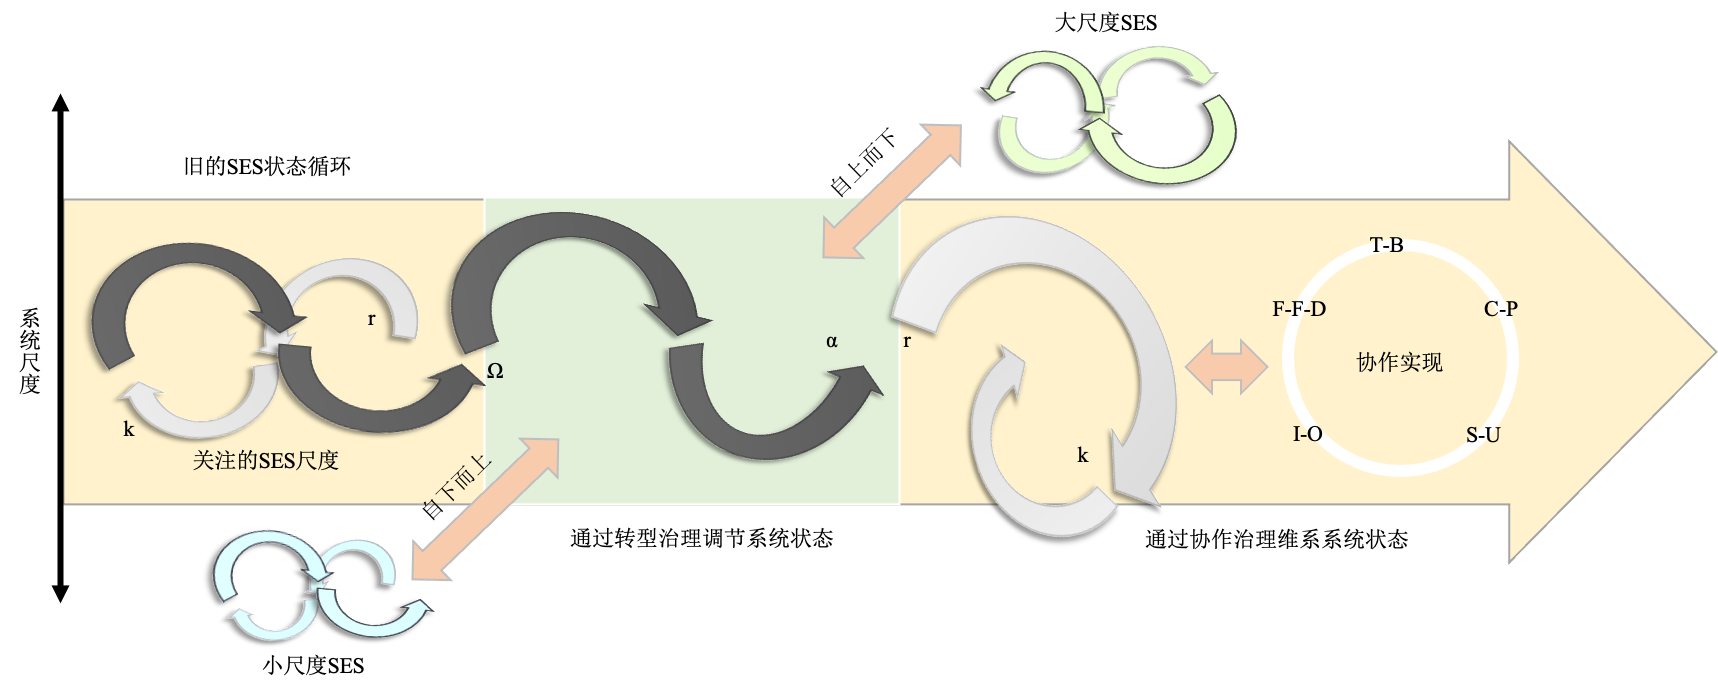
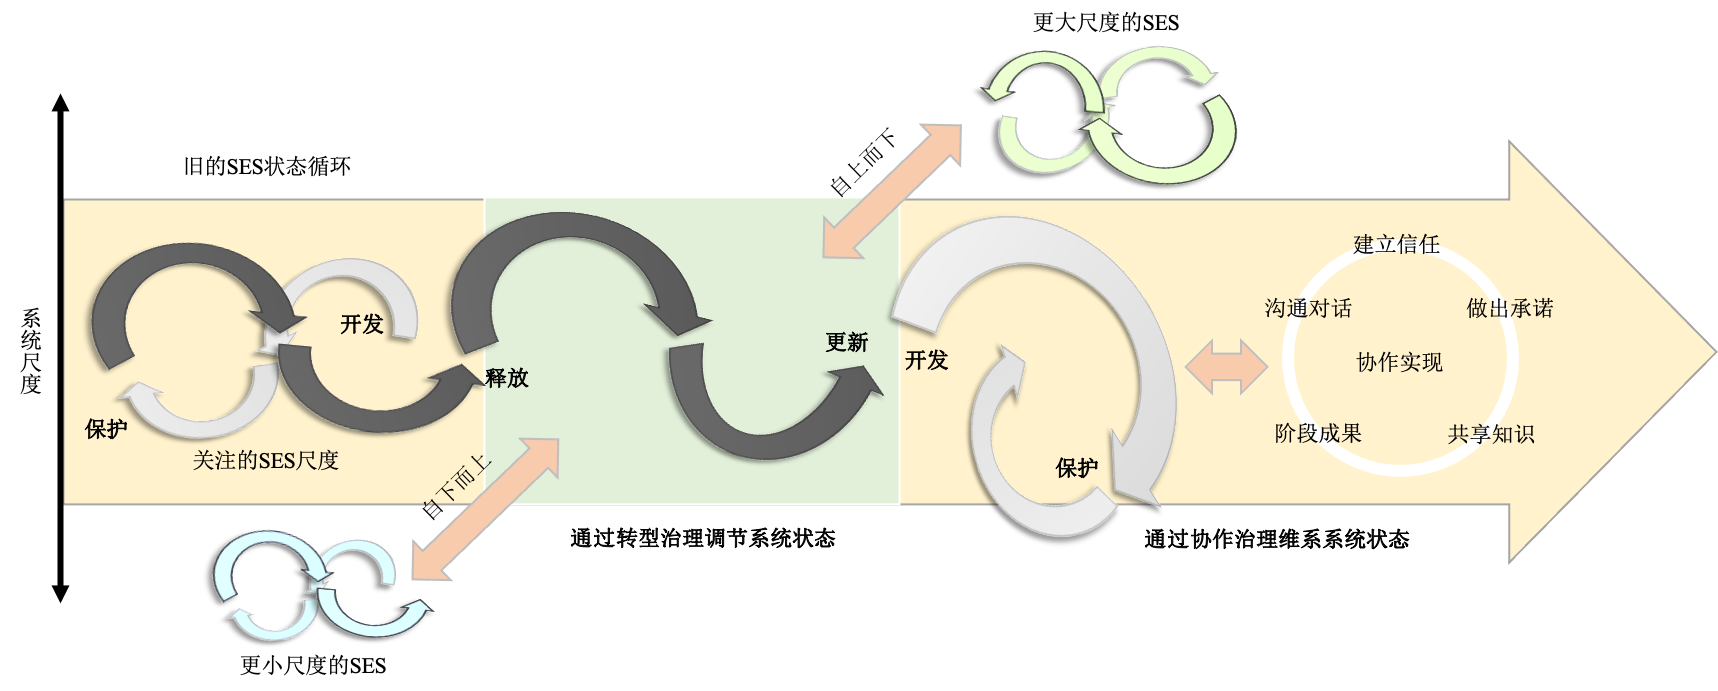
feat(chapter-1): :art: 更新第一章所有的图片

diff --git a/chapter1/source/introduction/ch1_theories.tex b/chapter1/source/introduction/ch1_theories.tex
@@ -17,9 +17,10 @@
 
 \subsubsection*{自然-社会二元水循环}
 
-王浩等人提出的“自然-社会二元水循环”理论指出，流域水循环受到人类活动影响，呈现出“天然-人工”二元特性\cite{wang2006}。
+王浩等人提出的“自然-社会二元水循环”理论指出，流域水循环受到人类活动影响，呈现出“天然-人工”二元特性\cite{wang2006}（图~\ref{ch1:fig:two_water_cycle}左）。
 该理论强调需要以“蒸散发管理”和“耗水管理”为核心来管理自然水循环和人工水循环，提出“以蒸散耗管理为核心、七大总量控制为约束”的水资源管理理念，在水资源评价工作中兼顾了水的自然和社会属性\cite{wang2010}。
-该理论的发展也得到了不少学者的补充和完善，例如王浩与贾仰文指出水循环的演变效应也是该理论的研究重点\cite{wang2016}，邓铭江等则提出了“自然—社会—贸易”三元水循环模式，解释西北干旱区内陆河流域水循环的机理\cite{deng2020}。该理论的提出强调了水资源管理需要考虑自然和社会属性，对于水资源的评价和管理带来了新的挑战。
+该理论的发展也得到了不少学者的补充和完善，例如王浩与贾仰文指出水循环的演变效应也是该理论的研究重点\cite{wang2016}，邓铭江等则提出了“自然—社会—贸易”三元水循环模式，解释西北干旱区内陆河流域水循环的机理\cite{deng2020}。
+该理论的提出强调了水资源管理需要考虑自然和社会属性，应对强烈人类活动干预为水资源评价和管理带来的挑战。
 
 自然-社会二元水循环理论以平衡态为基本假设，同时考虑了许多人类活动的影响。在水量估算与建模评价上具有理论优势，主要研究手段是原型观测、物理模型和数学模型。国内学者基于二元水循环的概念模式主要在水资源和水生态方面开展评价管理研究，包括识别循环结构、多尺度多过程分析、演变规律、未来预测与调控等\cite{wang2016}。
 例如，刘家宏等人在海河流域应用该理论，构建水平衡方程厘清“自然-人工”二元水循环结构，借助数据定量识别了该结构中各部分的数量关系\cite{liu2010}。
@@ -27,11 +28,17 @@
 黄强等人（2002）采用小波分析的方法对黄河二元模式的逐年演变规律进行了探索\cite{huang2002}；裴源生等人（2020）采用该理论改进了水量、水质、水效的联合调控方法\cite{pei2020}。
 可见，“自然-社会二元水循环”通过考虑人类社会系统对水循环的影响和对水资源的消耗，对指导现代流域水资源管理实践大有裨益。但是，其底层仍基于平衡态的工程学思想，在人与水的互馈作用研究上有所不足。
 
+\begin{figure}[htb]
+    \centering
+    \includegraphics[width=\textwidth]{img/ch1/ch1_two_water_cycle.png}
+    \caption[流域人水系统耦合的典型理论示意图]{流域人水系统耦合的典型理论示意图\cite{wang2006,dibaldassarre2015}。蓝色代表自然水循环的典型过程；黄色代表社会水循环的典型过程。}\label{ch1:fig:two_water_cycle}
+\end{figure}
+
 \subsubsection*{流域社会-水文学}
 
 % 开题报告
 旨在理解人-水之间协同演化规律和循环互馈机制的社会-水文学应运而生，并在现象检测、机理分析、模型预测等方面都获得了长足发展\cite{sivapalan2012, blair2016, srinivasan2016}。
-社会-水文学在诞生之初便以流域系统为单元分析人与水的互动反馈过程，其最根本的特征是将社会-水文系统视为动态系统，并将人类社会相关变量作为系统内部的驱动力，而非像传统水文学那样假设水文系统是在人类外部干扰下处于平衡态的\cite{sivapalan2012}。
+社会-水文学在诞生之初便以流域系统为单元分析人与水的互动反馈过程（图~\ref{ch1:fig:two_water_cycle}右），其最根本的特征是将社会-水文系统视为动态系统，并将人类社会相关变量作为系统内部的驱动力，而非像传统水文学那样假设水文系统是在人类外部干扰下处于平衡态的\cite{sivapalan2012}。
 Konar等人将社会-水文学的主要研究方向总结为四个：水循环与水资源利用、人与干旱之间的相互作用、人与洪水之间的相互作用、人与政策制度的相互作用\cite{konar2019}。
 Yu等人则指出该学科经多年发展后呈现出三个特征：在水循环的不同时空尺度下开展研究、将人类文化的演化特征纳入研究、将基础设施建设对水循环的干扰纳入分析\cite{yu2020}。
 这种超越传统水文学的思想指导下，一些社会-水文现象得到揭示，例如增大用水效率却常常无法节约流域水资源的“用水效率悖论”\cite{grafton2018, xiong2021a}，以及流域管理策略常在开发和保护之间周期性摆动的“钟摆效应”\cite{kandasamy2014, roobavannan2017, mostert2018}。

diff --git a/chapter1/source/ch1_background.tex b/chapter1/source/ch1_background.tex
@@ -18,7 +18,7 @@
 水是连接自然系统和社会系统的纽带，水循环过程是生态过程和社会发展的重要驱动力，人-水系统是以水循环为纽带将人文系统与水系统联系在一起的复合系统，是在流域尺度紧密相连的开放巨系统，也是典型的人与自然耦合系统\cite{li2007}。
 % 于璐 本子
 早在2013年，国际水文科学协会就启动十年科学计划“万物皆流（Panta Rhei）”，旨在解析水文过程与人类社会的连接和动态演变过程\cite{montanari2013}，广泛寻求水文学与社会经济的跨学科联系，将解析人-水系统的内在变化过程作为水文学发展蓝图的关键。
-近年来研究者对于人水关系的认识逐渐由外部动力演变为复杂的内在过程，人类活动也正式进入了 USGS 最新发布的水循环示意图; USGS, 2022）\cite{abbott2019, abbott2019a}
+近年来研究者对于人水关系的认识逐渐由外部动力演变为复杂的内在过程，人类活动也正式进入了美国地质勘探局（USGS）最新发布的水循环示意图\cite{abbott2019, abbott2019a}。
 
 作为一个复杂的人地关系地域系统，流域系统是在水循环上完整的地理单元，其演化路径由快变量（如水文、经济、工程）与慢变量（如生态与社会文化）共同作用导致，社会和生态系统的慢变量经过长期累积决定了人-水系统的演化进程\cite{falkenmark2021}。
 近十余年，程国栋、傅伯杰等国内专家学者组织多学科交叉的团队，围绕黑河流域系统、黄河流域系统的人地关系开展了大量集成研究，发展了多学科交叉、多种观测与模型结合的流域系统研究方法，使流域成为人地关系研究的重点突破单元\cite{cheng2014, fu2021a}。

diff --git a/chapter1/source/introduction/ch1_model.tex b/chapter1/source/introduction/ch1_model.tex
@@ -2,7 +2,13 @@
 模型的建立需要平衡真实性、预测性和普适性\cite{gunderson2017}。
 流域系统模型旨在描述水的地球物理过程动力学及人类管理元素（如基础设施、机构和治理）\cite{hadjimichael2020}。
 流域人水系统包括空间尺度依赖的地表生态过程、系统层次变量反馈的动力过程和多尺度的复杂人水相互作用\cite{bodin2017b,sayles2017,sayles2019}。
-因此，流域人水系统的建模方法主要包括：基于传统分布式水文模型耦合人类活动模块发展而来的分布式社会-水文模型；在系统或区域层次上耦合来自社会的系统动力学模型，用于模拟生态系统关键变量；以及自下而上对流域内复杂人-水互动进行仿真的多主体模型。
+因此，流域人水系统的建模方法主要包括：基于传统分布式水文模型耦合人类活动模块发展而来的分布式社会-水文模型（图\ref{ch1:fig:models}~A）；在系统或区域层次上耦合来自社会的系统动力学模型，用于模拟生态系统关键变量（图\ref{ch1:fig:models}~B）；以及自下而上对流域内复杂人-水互动进行仿真的多主体模型（图\ref{ch1:fig:models}~C）。
+
+\begin{figure}[htb]
+    \centering
+    \includegraphics[width=\textwidth]{img/ch1/ch1_models.png}
+    \caption[流域人水系统的建模方法示意图]{流域人水系统的建模方法示意图。}\label{ch1:fig:models}
+\end{figure}
 
 \subsubsection*{分布式社会-水文模型}
 
